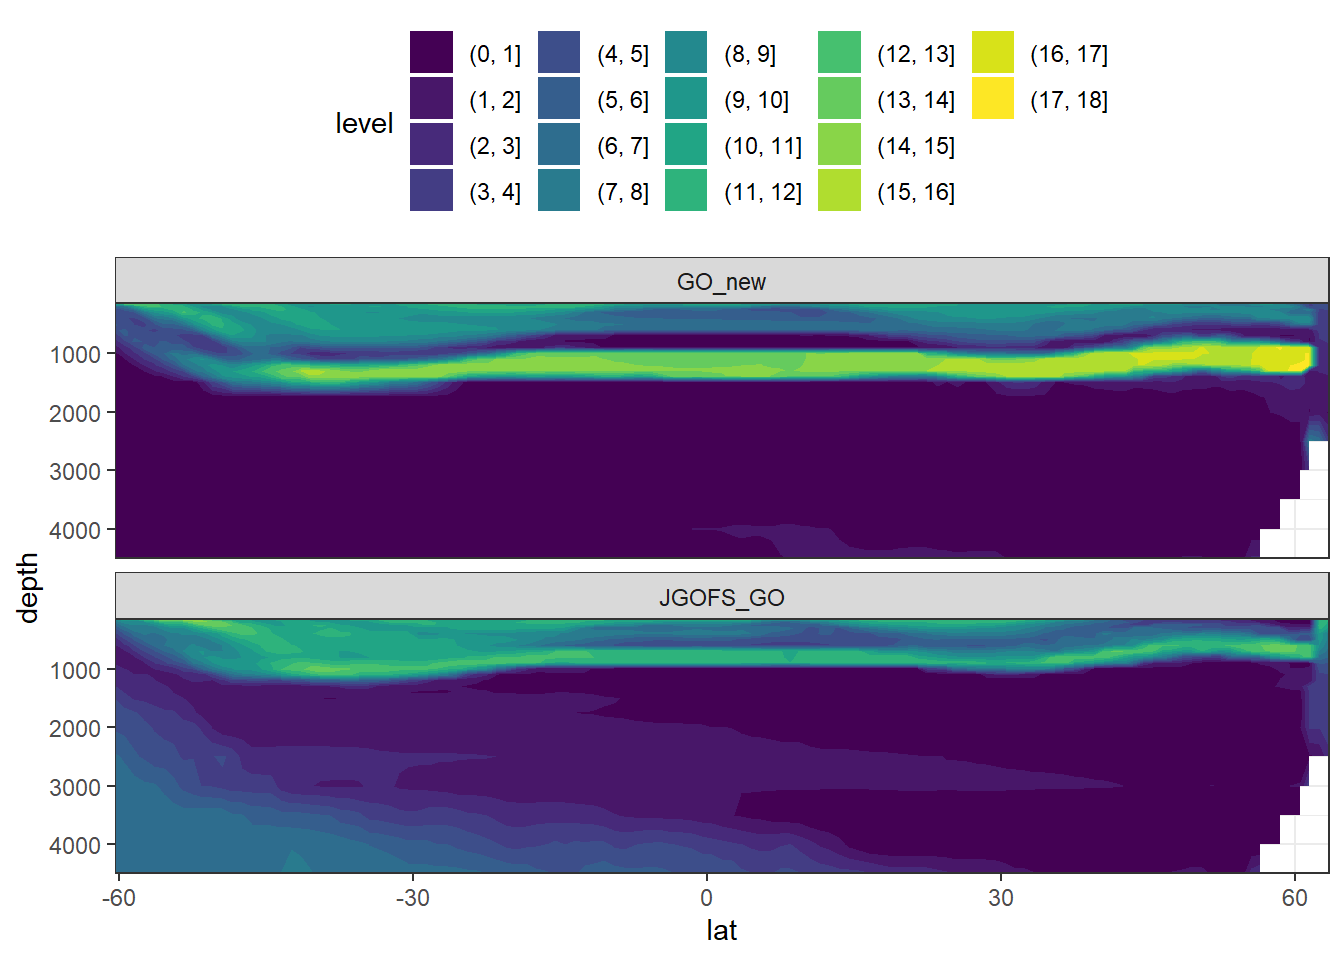
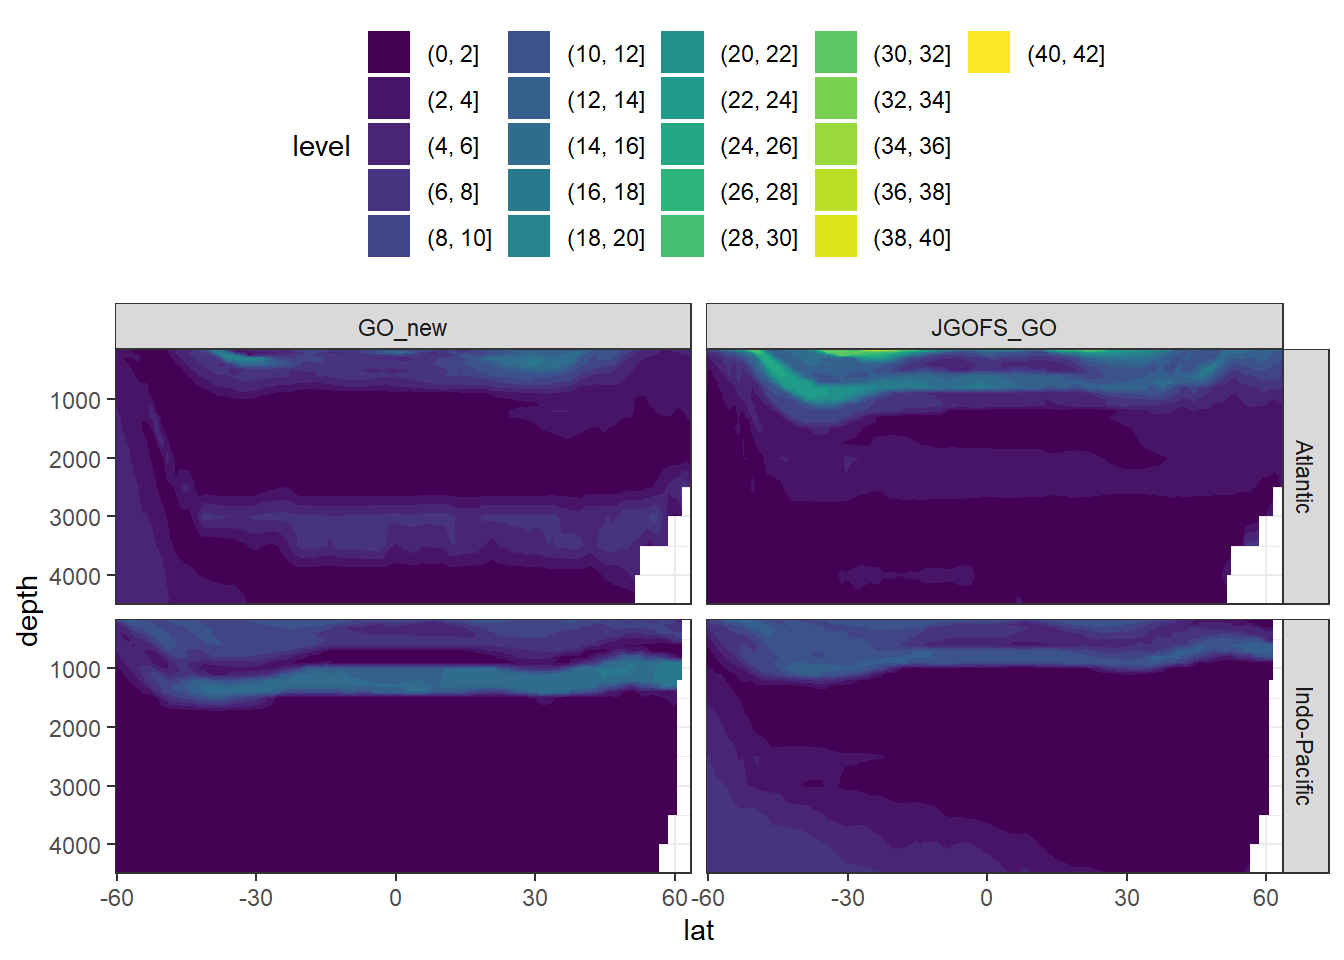
Build site.

diff --git a/docs/mapping.html b/docs/mapping.html
@@ -549,16 +549,16 @@ This reproducible <a href="http://rmarkdown.rstudio.com">R Markdown</a> analysis
 <div class="panel panel-default">
 <div class="panel-heading">
 <p class="panel-title">
-<a data-toggle="collapse" data-parent="#workflowr-checks" href="#strongRepositoryversionstrongahrefhttpsgithubcomjensdanielmuellerCanteMLRtree810fc7b591754a680fe8cbb7a072d2386fed1c43targetblank810fc7ba"> <span class="glyphicon glyphicon-ok text-success" aria-hidden="true"></span> <strong>Repository version:</strong> <a href="https://github.com/jens-daniel-mueller/Cant_eMLR/tree/810fc7b591754a680fe8cbb7a072d2386fed1c43" target="_blank">810fc7b</a> </a>
+<a data-toggle="collapse" data-parent="#workflowr-checks" href="#strongRepositoryversionstrongahrefhttpsgithubcomjensdanielmuellerCanteMLRtree1356e5644e6ae8c0bd281f7d644ae62c0328f14ctargetblank1356e56a"> <span class="glyphicon glyphicon-ok text-success" aria-hidden="true"></span> <strong>Repository version:</strong> <a href="https://github.com/jens-daniel-mueller/Cant_eMLR/tree/1356e5644e6ae8c0bd281f7d644ae62c0328f14c" target="_blank">1356e56</a> </a>
 </p>
 </div>
[2 lines of base64/hex data omitted]
 <div class="panel-body">
 <p>
 Great! You are using Git for version control. Tracking code development and connecting the code version to the results is critical for reproducibility.
 </p>
 <p>
-The results in this page were generated with repository version <a href="https://github.com/jens-daniel-mueller/Cant_eMLR/tree/810fc7b591754a680fe8cbb7a072d2386fed1c43" target="_blank">810fc7b</a>. See the <em>Past versions</em> tab to see a history of the changes made to the R Markdown and HTML files.
+The results in this page were generated with repository version <a href="https://github.com/jens-daniel-mueller/Cant_eMLR/tree/1356e5644e6ae8c0bd281f7d644ae62c0328f14c" target="_blank">1356e56</a>. See the <em>Past versions</em> tab to see a history of the changes made to the R Markdown and HTML files.
 </p>
 <p>
 Note that you need to be careful to ensure that all relevant files for the analysis have been committed to Git prior to generating the results (you can use <code>wflow_publish</code> or <code>wflow_git_commit</code>). workflowr only checks the R Markdown file, but you know if there are other scripts or data files that it depends on. Below is the status of the Git repository when the results were generated:
@@ -615,6 +615,40 @@ Message
 </tr>
 </thead>
 <tbody>
+<tr>
+<td>
+Rmd
+</td>
+<td>
+<a href="https://github.com/jens-daniel-mueller/Cant_eMLR/blob/1356e5644e6ae8c0bd281f7d644ae62c0328f14c/analysis/mapping.Rmd" target="_blank">1356e56</a>
+</td>
+<td>
+jens-daniel-mueller
+</td>
+<td>
+2020-08-04
+</td>
+<td>
+Cant plots per basin
+</td>
+</tr>
+<tr>
+<td>
+html
+</td>
+<td>
+<a href="https://rawcdn.githack.com/jens-daniel-mueller/Cant_eMLR/a95daf0d5d9cde9ee2d1493b829be24cc1161143/docs/mapping.html" target="_blank">a95daf0</a>
+</td>
+<td>
+jens-daniel-mueller
+</td>
+<td>
+2020-08-04
+</td>
+<td>
+Build site.
+</td>
+</tr>
 <tr>
 <td>
 Rmd
@@ -1193,17 +1227,17 @@ all_lm_wide &lt;- all_lm_long %&gt;%
 
 rm(all_lm_long, all_lm)</code></pre>
 </div>
-</div>
-<div id="po4-calculation" class="section level1">
-<h1><span class="header-section-number">4</span> PO<sub>4</sub>* calculation</h1>
+<div id="po4-calculation" class="section level2">
+<h2><span class="header-section-number">3.2</span> PO<sub>4</sub>* calculation</h2>
 <p>Currently, the predictor PO<sub>4</sub>* is calculated according to Clement and Gruber (2018), ie based on oxygen rather than nitrate.</p>
 <pre class="r"><code>predictors &lt;- predictors %&gt;% 
   rename(phosphate = PO4) %&gt;% 
   mutate(phosphate_star = phosphate + (oxygen / 170)  - 1.95)</code></pre>
+</div>
 <div id="aou-climatology" class="section level2">
-<h2><span class="header-section-number">4.1</span> AOU climatology</h2>
+<h2><span class="header-section-number">3.3</span> AOU climatology</h2>
 <div id="calculation" class="section level3">
-<h3><span class="header-section-number">4.1.1</span> Calculation</h3>
+<h3><span class="header-section-number">3.3.1</span> Calculation</h3>
 <pre class="r"><code>predictors &lt;- predictors %&gt;% 
   mutate(oxygen_sat = gas_satconc(S = salinity,
                                   t = temperature,
@@ -1213,7 +1247,7 @@ rm(all_lm_long, all_lm)</code></pre>
   select(-oxygen_sat)</code></pre>
 </div>
 <div id="atlantic-section" class="section level3">
-<h3><span class="header-section-number">4.1.2</span> Atlantic section</h3>
+<h3><span class="header-section-number">3.3.2</span> Atlantic section</h3>
 <pre class="r"><code>Atl_lon &lt;- 335.5 - 360
 
 predictors %&gt;% 
@@ -1228,7 +1262,7 @@ predictors %&gt;%
 </div>
 </div>
 <div id="isoneutral-slabs" class="section level2">
-<h2><span class="header-section-number">4.2</span> Isoneutral slabs</h2>
+<h2><span class="header-section-number">3.4</span> Isoneutral slabs</h2>
 <pre class="r"><code>slabs_Atl &lt;- c(
 -Inf,
 26.00,
@@ -1279,11 +1313,11 @@ predictors &lt;- bind_rows(predictors_Atl, predictors_Ind_Pac)
 rm(predictors_Atl, predictors_Ind_Pac, slabs_Atl, slabs_Ind_Pac)</code></pre>
 </div>
 <div id="merge-model-climatology" class="section level2">
-<h2><span class="header-section-number">4.3</span> Merge model + climatology</h2>
+<h2><span class="header-section-number">3.5</span> Merge model + climatology</h2>
 <pre class="r"><code>Cant &lt;- full_join(predictors, all_lm_wide)</code></pre>
 </div>
 <div id="calculate-cant" class="section level2">
-<h2><span class="header-section-number">4.4</span> Calculate Cant</h2>
+<h2><span class="header-section-number">3.6</span> Calculate Cant</h2>
 <pre class="r"><code>Cant &lt;- Cant %&gt;% 
   mutate(Cant = `delta_coeff_(Intercept)` +
            delta_coeff_aou * aou +
@@ -1306,32 +1340,32 @@ Cant_model_average_section &lt;- Cant_model_average %&gt;%
   summarise(Cant_zonal_mean = mean(Cant_mean, na.rm = TRUE)) %&gt;% 
   ungroup()</code></pre>
 </div>
-<div id="atlantic-section-1" class="section level2">
-<h2><span class="header-section-number">4.5</span> Atlantic section</h2>
+<div id="mean-cant-sections" class="section level2">
+<h2><span class="header-section-number">3.7</span> Mean Cant sections</h2>
 <pre class="r"><code>Cant_model_average_section %&gt;% 
   filter(depth &lt;= 500,
          lat &gt; -60.6) %&gt;% 
   ggplot(aes(lat, depth, z = Cant_zonal_mean)) +
-  geom_contour_filled(binwidth = 1) +
+  geom_contour_filled(binwidth = 2) +
   scale_y_reverse() +
   coord_cartesian(expand = 0) +
   theme(legend.position = &quot;top&quot;) +
-  facet_wrap(~eras, ncol = 1)</code></pre>
+  facet_grid(basin~eras)</code></pre>
 <p><img src="figure/mapping.Rmd/Cant_Atlantic_section_mean_surface-1.png" width="672" style="display: block; margin: auto;" /></p>
 <pre class="r"><code>Cant_model_average_section %&gt;% 
   filter(depth &lt;= 4500,
          lat &gt; -60.6) %&gt;% 
   ggplot(aes(lat, depth, z = Cant_zonal_mean)) +
-  geom_contour_filled(binwidth = 1) +
+  geom_contour_filled(binwidth = 2) +
   scale_y_reverse() +
   coord_cartesian(expand = 0) +
   theme(legend.position = &quot;top&quot;) +
-  facet_wrap(~eras, ncol = 1)</code></pre>
+  facet_grid(basin~eras)</code></pre>
 <p><img src="figure/mapping.Rmd/Cant_Atlantic_section_mean-1.png" width="672" style="display: block; margin: auto;" /></p>
 </div>
 </div>
 <div id="neutral-density-calculation" class="section level1">
-<h1><span class="header-section-number">5</span> Neutral density calculation</h1>
+<h1><span class="header-section-number">4</span> Neutral density calculation</h1>
 <pre class="r"><code>GLODAP &lt;- read_csv(here::here(&quot;data/GLODAPv2_2020/_summarized_data_files&quot;,
                                 &quot;GLODAP_MLR_fitting_ready.csv&quot;))
 
@@ -1363,14 +1397,13 @@ GLODAP_cruise %&gt;%
   theme(legend.position = &quot;bottom&quot;)
 
 lat_section +
-  geom_point(aes(col = gamma))</code></pre>
-<p><img src="figure/mapping.Rmd/calculate_neutral_density_test-1.png" width="672" style="display: block; margin: auto;" /></p>
-<pre class="r"><code>lat_section +
-  geom_point(aes(col = gamma_calc))</code></pre>
-<p><img src="figure/mapping.Rmd/calculate_neutral_density_test-2.png" width="672" style="display: block; margin: auto;" /></p>
-<pre class="r"><code>lat_section +
+  geom_point(aes(col = gamma))
+
+lat_section +
+  geom_point(aes(col = gamma_calc))
+
+lat_section +
   geom_point(aes(col = delta_gamma))</code></pre>
-<p><img src="figure/mapping.Rmd/calculate_neutral_density_test-3.png" width="672" style="display: block; margin: auto;" /></p>
 <br>
 <p>
 <button type="button" class="btn btn-default btn-workflowr btn-workflowr-sessioninfo" data-toggle="collapse" data-target="#workflowr-sessioninfo" style="display: block;">
